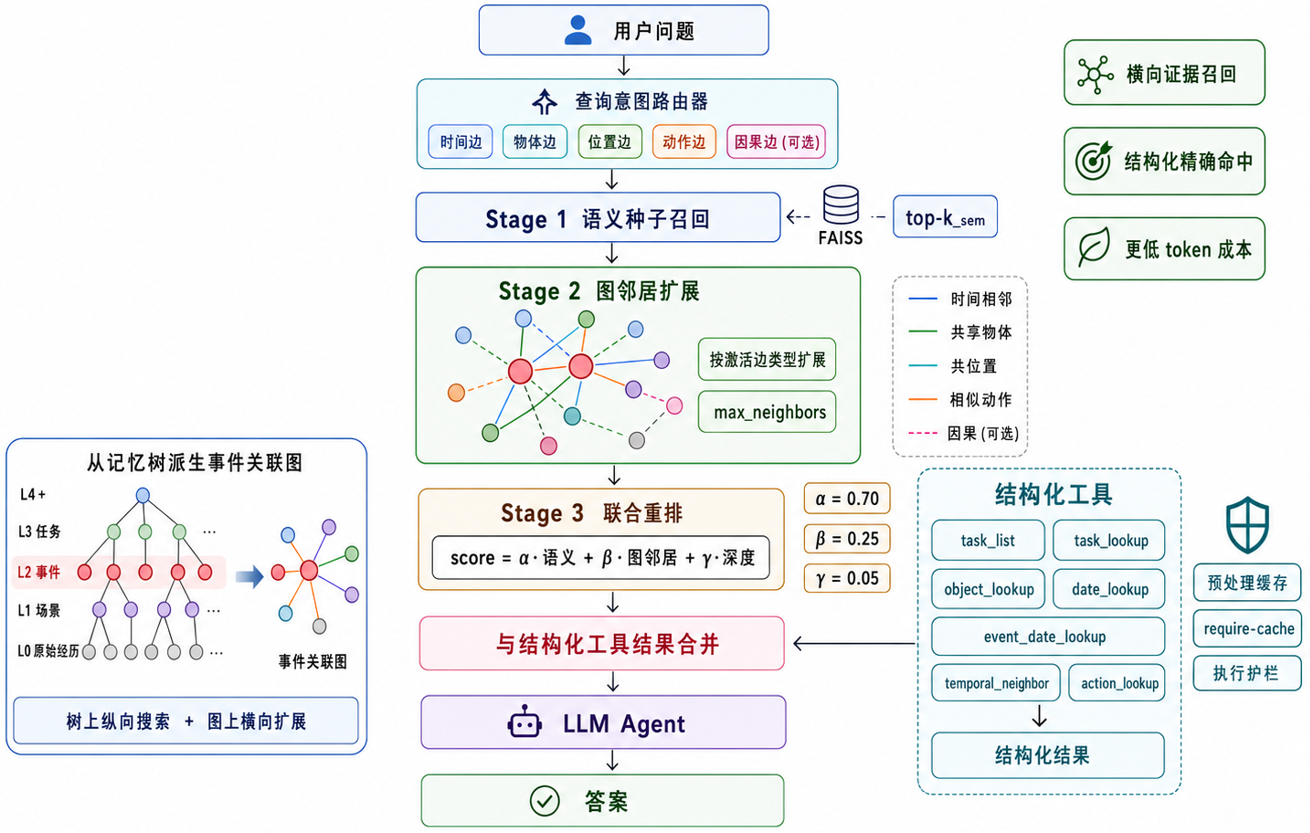
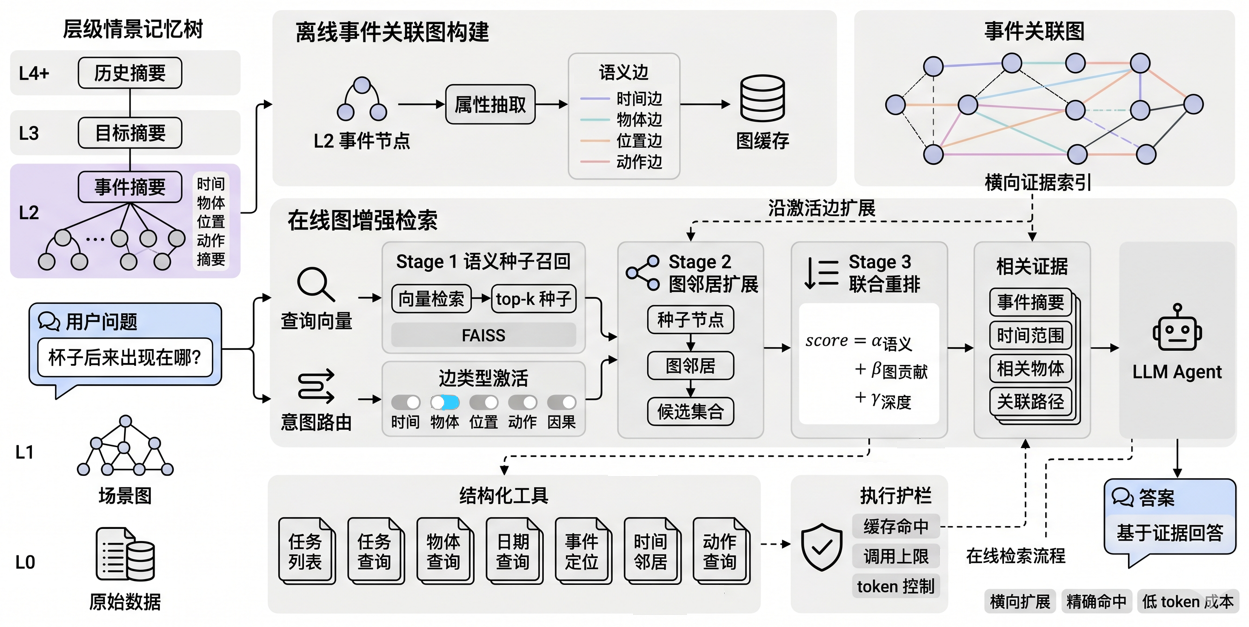
初步图完善

diff --git a/nwputhesis/content/thesis/undergraduate/abstract.tex b/nwputhesis/content/thesis/undergraduate/abstract.tex
@@ -2,30 +2,33 @@
 
 % 中文摘要
 \begin{abstract}
-服务机器人在长期部署中需要持续理解和回忆历史经历以回答用户回溯性问题。随着运行时间增长，记忆系统面临检索效率下降、存储持续膨胀和错误无法修正三个根本性挑战。针对上述问题，本文提出 \textbf{GRAF-Mem}（Graph-Retrieval and Adaptive Forgetting Memory），一个面向长期机器人经验问答的主动式层级情景记忆框架。本文的主要创新点如下。
+随着大语言模型和多模态感知技术的发展，服务机器人正逐渐从短时任务执行走向家庭服务、人机协作等长期连续部署场景。在这类场景中，机器人不仅需要完成当前任务，还需要持续记录和理解自身经历，并能够根据用户的自然语言问题回溯过去发生的事件。将机器人多模态经历组织为可检索、可问答的长期情景记忆，是提升人机交互可信度和长期协作能力的重要基础。然而，随着运行时间不断增长，长期记忆系统也面临更加突出的挑战：历史规模扩大导致检索成本上升，持续写入经历造成存储压力增加，感知或摘要错误一旦写入记忆后也难以及时修正。现有长上下文语言模型、检索增强生成和层级记忆方法虽然能够在一定程度上支持长历史问答，但对跨事件语义关联、长期存储管理和动态错误修正的支持仍然不足。
 
-\textbf{第一，提出事件关联图增强检索方法。}在层级记忆树之上构建包含时间、物体、位置、动作和因果五类语义边的事件关联图，设计"语义种子召回→图邻居扩展→联合重排"三阶段检索流水线，配合七种结构化检索工具，将智能体（Agent）的搜索行为从无结构自由探索转变为沿结构化路径精确命中。在 TEACh 数据集 $|h|=100$ 设置下，GRAF-Mem 达到 $S_c=49.0\%$、$S_p=75.0\%$，平均 token 消耗仅 2.29K，相比基线正确率提升 15 个百分点、token 成本降低 78\%。
+针对上述挑战，本课题主要研究面向长时具身问答的图增强检索与主动记忆维护方法主要工作如下：
 
-\textbf{第二，提出效用引导的渐进式遗忘方法。}设计融合新近性（艾宾浩斯指数衰减）、语义独特性和多信号重要性（用户对话、动作异常、目标变化、图度中心性）的三因素效用函数，按双阈值划分执行 Level 0 完整保留、Level 1 去图像、Level 2 仅保留摘要的三级渐进压缩，并配套对话豁免、失败豁免、Goal 边界保护和安全下限四重保护机制。在 TEACh $|h|=50$ 上，保守配置以 5.26\% 的树结构压缩保持全部答案一致；强压缩配置将关系数削减 50.83\%、超 61\% 事件进入仅保留摘要的 Level 2，同样保持全部答案一致。在 ARMARX 真实机器人数据上验证了图中心性引导遗忘从"删多少"到"选择性遗忘"的质变。
+（1）提出一种基于事件关联图的长历史记忆检索方法。该方法从层级记忆树中的事件节点自动构建包含时间、物体、位置、动作和因果关系的事件关联图，并通过语义种子召回、图邻居扩展和联合重排实现图增强检索。同时，系统将任务、物体、日期和时间邻居等信息封装为结构化检索工具，使智能体能够沿更加明确的结构化路径访问相关记忆。
 
-\textbf{第三，提出反馈驱动的记忆修正方法。}设计反馈锚定的逆向错误定位、LLM 辅助最小化修正、传播检测与自动传播四阶段修正管线，以及基于非侵入式视图重定向的记忆遮蔽机制，以非侵入、可逆、可追溯的方式实现记忆修正。实验表明 LLM 修正与传播检测均达到 100\% 成功率，闭环验证确认了从用户反馈到答案改善的完整链路。
+（2）提出一种效用引导的渐进式记忆遗忘方法。该方法综合考虑事件的新近性、语义独特性和多信号重要性，对不同事件分配连续效用评分，并根据评分结果执行完整保留、去除原始多模态大对象或仅保留摘要的分级压缩策略。为降低关键证据被误删的风险，系统进一步引入对话豁免、失败豁免、目标边界保护和最低保留比例等安全机制。
 
-GRAF-Mem 将长期情景记忆从静态的"存下来、搜得到"推进为主动的"维护好、可更新"，为服务机器人在长期部署中维持高效、经济、可靠的情景记忆问答提供了系统性的技术方案。
-\keywordslist{长期情景记忆, 服务机器人, 图增强检索, 遗忘与修正}
+（3）提出一种反馈驱动的记忆修正方法。该方法根据用户反馈构造纠错线索，通过错误定位、LLM 辅助最小化修正、传播检测和自动传播修正四个阶段，对记忆树中可能存在的错误事实进行定位和更新。针对直接改写底层感知数据可能破坏原始记录的问题，本文设计了非侵入式视图重定向机制，使修正后的摘要能够在检索和展示过程中优先生效，同时保留原始记忆内容及修正来源。
+
+实验结果表明，GRAF-Mem 能在长时具身问答中提升检索效率，降低冗余记忆带来的存储压力，并为错误记忆提供可追溯的修正机制。本文工作为长期服务机器人构建可检索、可压缩、可修正的情景记忆系统提供了一种可行方案。
+\keywordslist{长期情景记忆, 服务机器人, 图增强检索, 主动记忆维护}
 \end{abstract}
 
 % 英文摘要
 \begin{engabstract}
-As large language models and multimodal perception technologies advance rapidly, service robots are transitioning from laboratory demonstrations to long-term, continuous deployment in homes and industries. In this process, Episodic Memory Verbalization (EMV) — the ability to convert raw multimodal experience streams into natural language question answering — has become a key technology for enhancing human-robot interaction trust. However, long-term deployment memory systems face three fundamental technical tensions: the contradiction between retrieval efficiency and ever-growing history length, storage inflation from continuous memory writing, and persistent contamination from perception and understanding errors that, once written, cannot be corrected.
+With the development of large language models and multimodal perception, service robots are gradually moving from short-term task execution to long-term deployment in domestic, assistive, and human-robot collaboration scenarios. In such settings, a robot is expected not only to complete current tasks, but also to record, organize, and retrieve its past experiences in response to users' retrospective questions. Building long-term episodic memory that can support natural-language question answering is therefore important for trustworthy and persistent human-robot interaction. However, as the operating history grows, long-term memory systems face several challenges: retrieval becomes more expensive, continuously written experiences increase storage pressure, and perception or summarization errors are difficult to correct once they have been stored. Existing methods based on long-context language models, retrieval-augmented generation, and hierarchical memory structures can support long-history question answering to some extent, but they are still limited in cross-event association, long-term storage management, and dynamic memory correction.
 
-To address these challenges, this thesis proposes \textbf{GRAF-Mem} (Graph-Retrieval and Adaptive Forgetting Memory), a proactive long-term memory framework that integrates graph-enhanced retrieval, utility-guided forgetting, and feedback-driven correction on the skeleton of a hierarchical memory tree. The three modules share a common event correlation graph data structure: retrieval uses graph edges for neighbor expansion to improve recall, forgetting uses graph centrality for importance scoring to guide selective compression, and correction uses graph neighbors for propagation detection to extend repair coverage.
+To address these challenges, this thesis studies graph-enhanced retrieval and proactive memory maintenance for long-term embodied question answering, and proposes GRAF-Mem (Graph-Retrieval and Adaptive Forgetting Memory), a long-term episodic memory framework built upon a hierarchical memory tree. The framework introduces an event correlation graph as a unified structural index, and improves the memory system from three aspects: retrieval, compression, and correction. The main work is as follows.
 
-For retrieval, this thesis proposes automatically deriving event correlation graphs with five semantic edge types (temporal, co-object, co-location, similar-action, and causal) from L2 event nodes, along with a three-stage graph-enhanced retrieval pipeline (semantic seed recall → graph neighbor expansion → joint re-ranking) complemented by seven structured retrieval tools and execution safeguards. On the TEACh dataset with |h|=100, GRAF-Mem achieves $S_c$=49.0\%, S\textsubscript{p}=75.0\%, and T=2.29K, improving semantic correctness by 15 percentage points and reducing token cost by 78\% compared to the baseline.
+(1) A graph-enhanced retrieval method based on event correlation graphs is proposed. The method automatically constructs an event graph from event-level memory nodes, with semantic edges representing temporal, object, location, action, and causal relations. It then performs retrieval through semantic seed recall, graph-neighbor expansion, and joint re-ranking. Structured tools for tasks, objects, dates, and temporal neighbors are also provided, enabling the agent to access relevant memories through more explicit structural paths. Experiments on the TEACh dataset show that, under the $|h|=100$ long-history setting, GRAF-Mem achieves 49.0\% semantic correctness and 75.0\% partial correctness, with an average prompt-token cost of 2.29K, improving both answer quality and context efficiency compared with the reference baseline.
 
-For storage, this thesis proposes utility-guided progressive forgetting that integrates recency (Ebbinghaus exponential decay), semantic uniqueness, and multi-signal importance (user dialogue, action anomaly, goal transition, graph degree centrality) to compute continuous utility values for each event node, with three-level progressive compression governed by dual thresholds. On TEACh |h|=50, the conservative configuration achieves exact answer consistency on 100/100 QA pairs with 5.26\% tree structure compression; the aggressive configuration reduces relations by 50.83\% with over 61\% of events entering summary-only Level 2 while maintaining identical answers across all questions. On ARMARX real-robot data, graph-centrality-guided forgetting demonstrates the qualitative shift from "how much to delete" to "what to selectively forget."
+(2) A utility-guided progressive forgetting method is proposed. The method evaluates each event by considering recency, semantic uniqueness, and multi-signal importance, and then applies different compression levels, including full retention, removal of raw multimodal objects, and summary-only retention. To reduce the risk of discarding important evidence, several protection mechanisms are introduced, including dialogue exemption, failure exemption, goal-boundary protection, and a minimum retention ratio. Under the TEACh $|h|=50$ setting, the conservative configuration achieves 5.26\% tree-structure compression while preserving answer consistency. The more aggressive configuration reduces the number of relations by 50.83\%, with over 61\% of events entering the summary-only level, while still maintaining identical final answers. Additional experiments on ARMARX data show that graph centrality helps preserve relation-rich events that are important for downstream question answering.
 
-For maintenance, this thesis proposes a four-stage feedback-driven memory correction pipeline — feedback-anchored reverse error localization, LLM-assisted minimal correction, propagation detection, and automatic propagation — together with a summary override mechanism based on Python runtime dynamic attributes, enabling non-intrusive, reversible, and traceable memory correction. Under controlled error injection, LLM correction achieves 100\% success, propagation detection reaches 100\% recall, and end-to-end closed-loop verification confirms the complete chain from user feedback to answer improvement.
+(3) A feedback-driven memory correction method is proposed. Given user feedback, the method constructs correction cues and updates erroneous memories through four stages: error localization, LLM-assisted minimal correction, propagation detection, and automatic propagation repair. To avoid directly modifying low-level perceptual records, a non-intrusive view redirection mechanism is designed, allowing corrected summaries to take effect during retrieval and display while keeping the original memory and correction source traceable. Controlled error-injection experiments show that the method can perform local correction of erroneous facts and detect related error propagation in scenarios such as continuous-frame contamination. End-to-end closed-loop experiments further verify the complete process from user feedback to improved subsequent answers.
 
-GRAF-Mem advances long-term episodic memory from passive "store and retrieve" to proactive "maintain and update," providing a systematic technical solution for service robots to sustain efficient, economical, and reliable episodic memory QA over months and years of continuous deployment.
-\engkeywordslist{Long-Term Episodic Memory, Service Robots, Graph-Enhanced Retrieval, Forgetting and Correction}
+Experimental results indicate that GRAF-Mem can improve retrieval efficiency in long-term embodied question answering, reduce storage pressure caused by redundant memories, and provide a traceable mechanism for correcting erroneous memories. This thesis provides a feasible approach for building long-term robotic episodic memory systems that are retrievable, compressible, and correctable.
+
+\engkeywordslist{Long-Term Episodic Memory; Embodied Question Answering; Service Robots; Graph-Enhanced Retrieval; Proactive Memory Maintenance}
 \end{engabstract}

diff --git a/nwputhesis/content/thesis/undergraduate/chapter1.tex b/nwputhesis/content/thesis/undergraduate/chapter1.tex
@@ -27,8 +27,8 @@
 
 \begin{figure}[htbp]
     \centering
-    \includegraphics[width=\textwidth]{图1-1长历史机器人情景记忆问答的主要技术路线对比.png}
-    \caption{长历史机器人情景记忆问答的主要技术路线对比}
+    \includegraphics[width=\textwidth]{content/figures/图1-1 长历史具身情景记忆问答主要技术路线对比.png}
+    \caption{长历史具身情景记忆问答主要技术路线对比}
     \label{fig:tech-routes}
 \end{figure}
 
